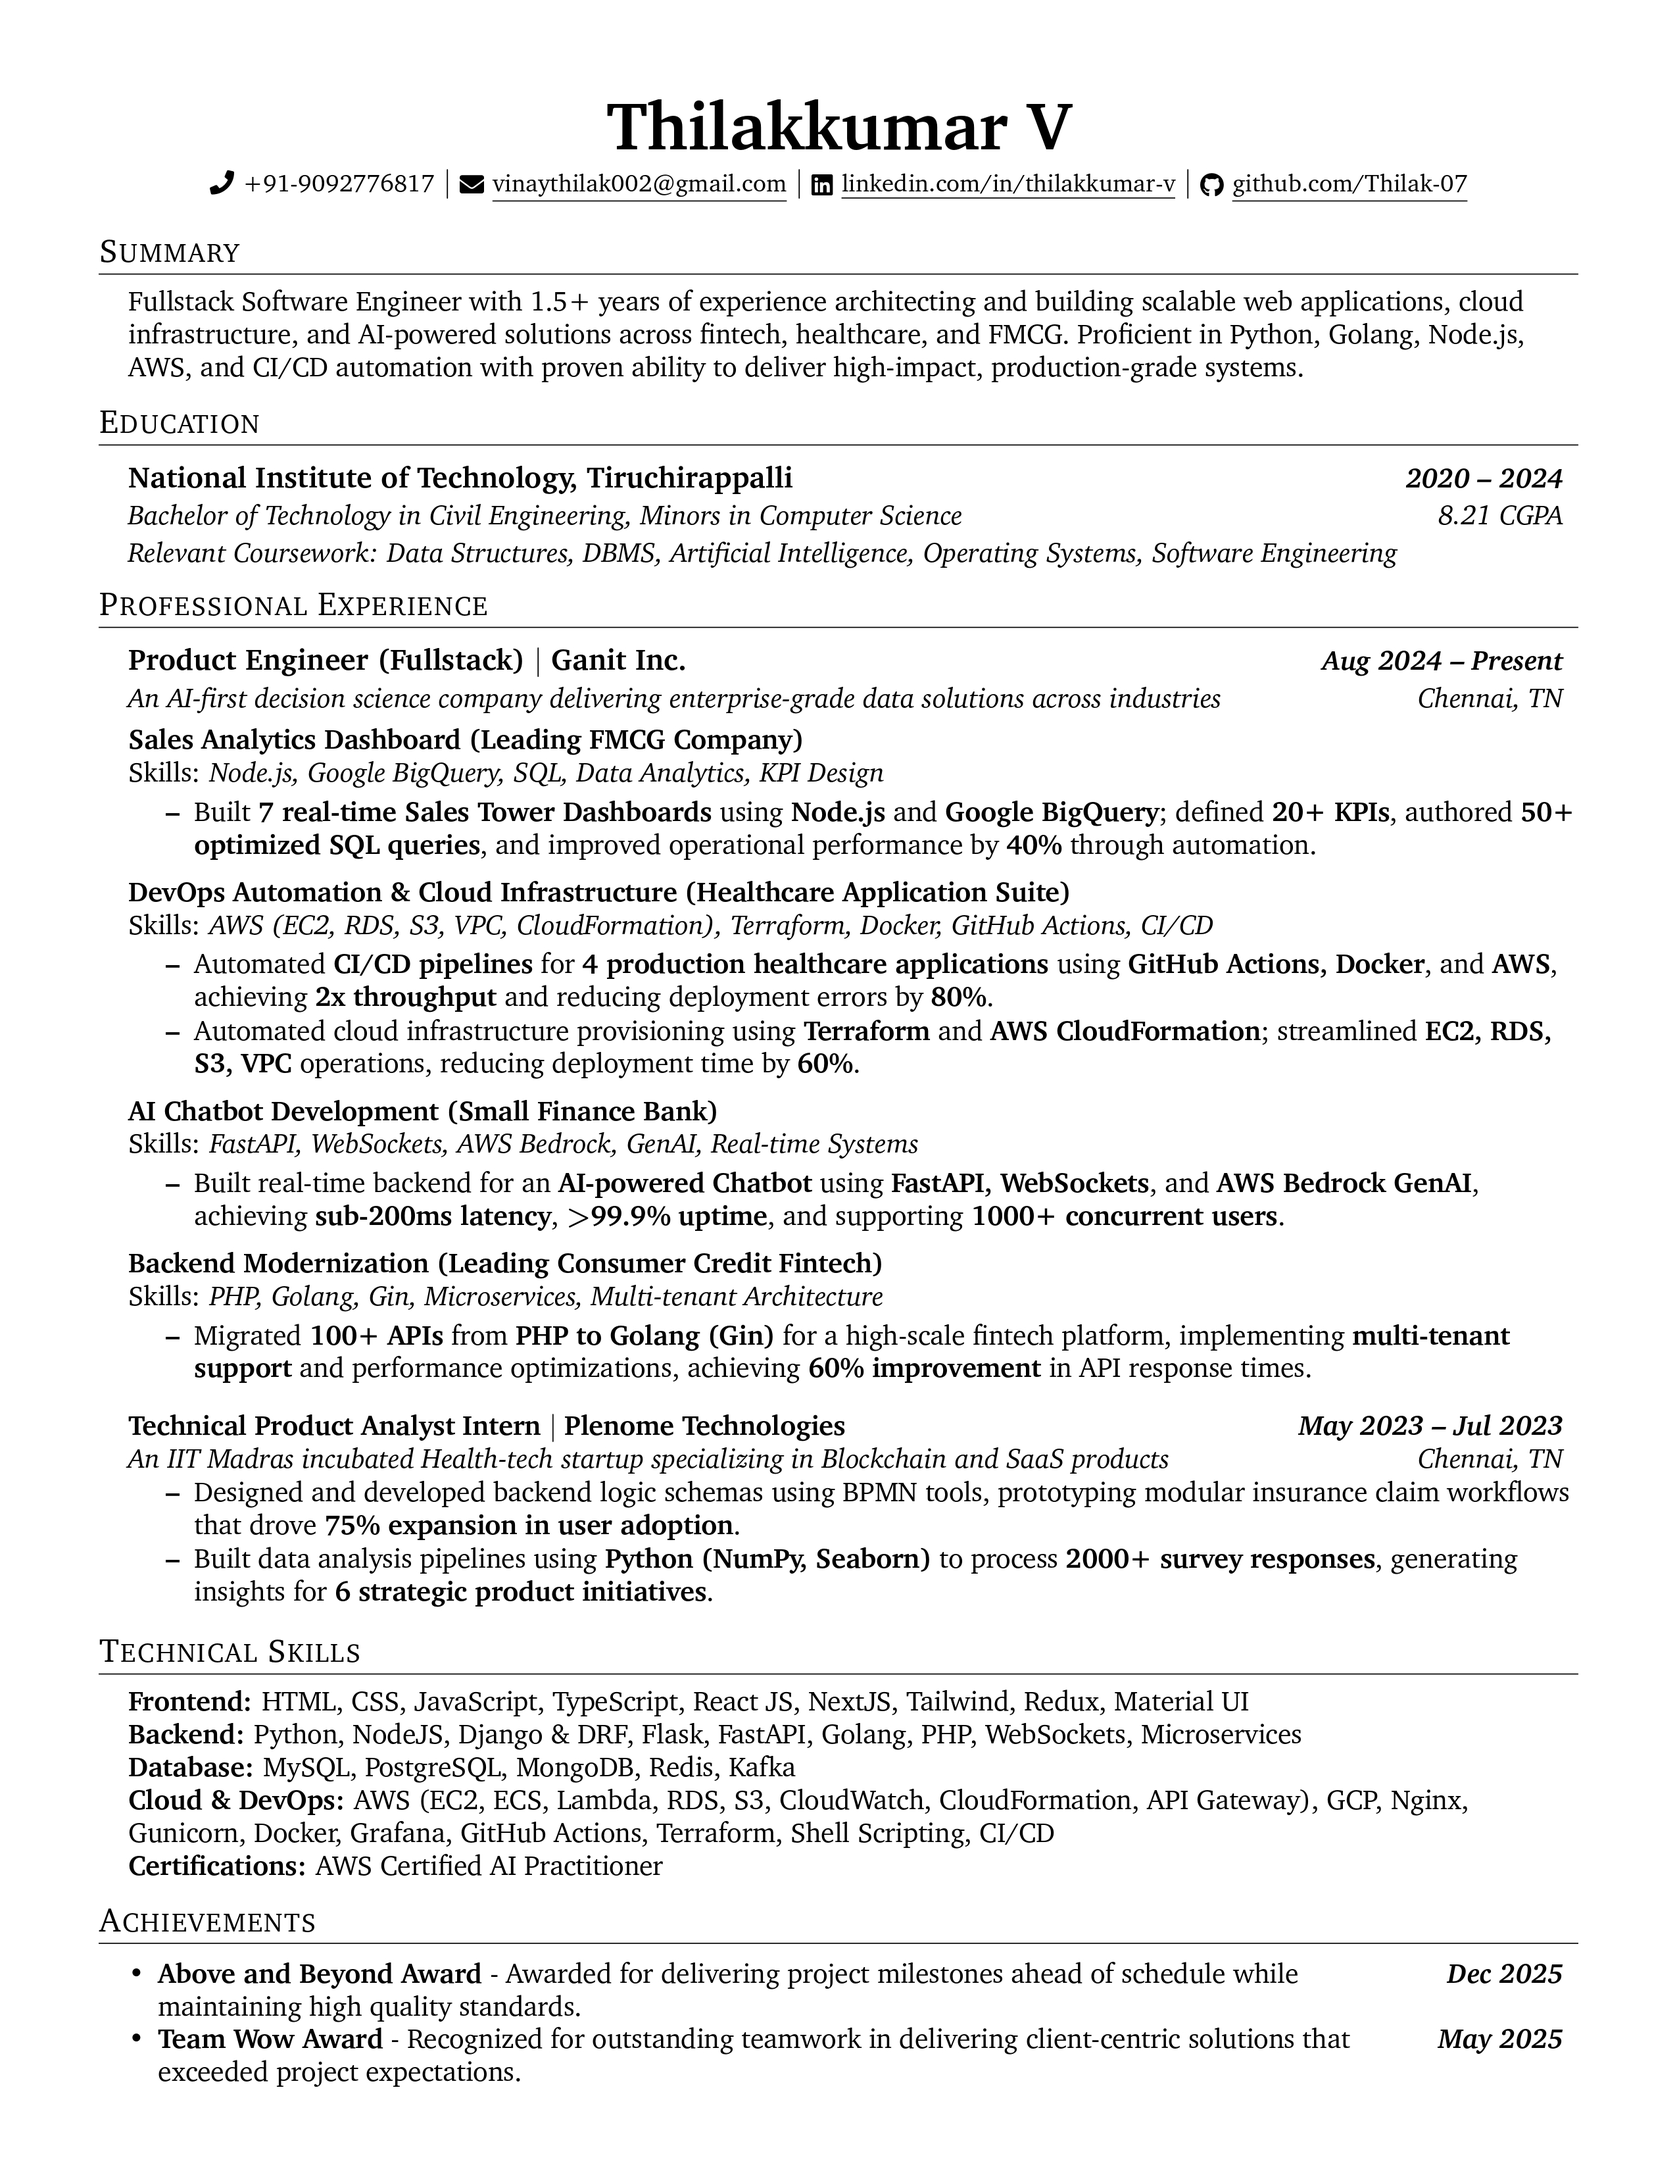
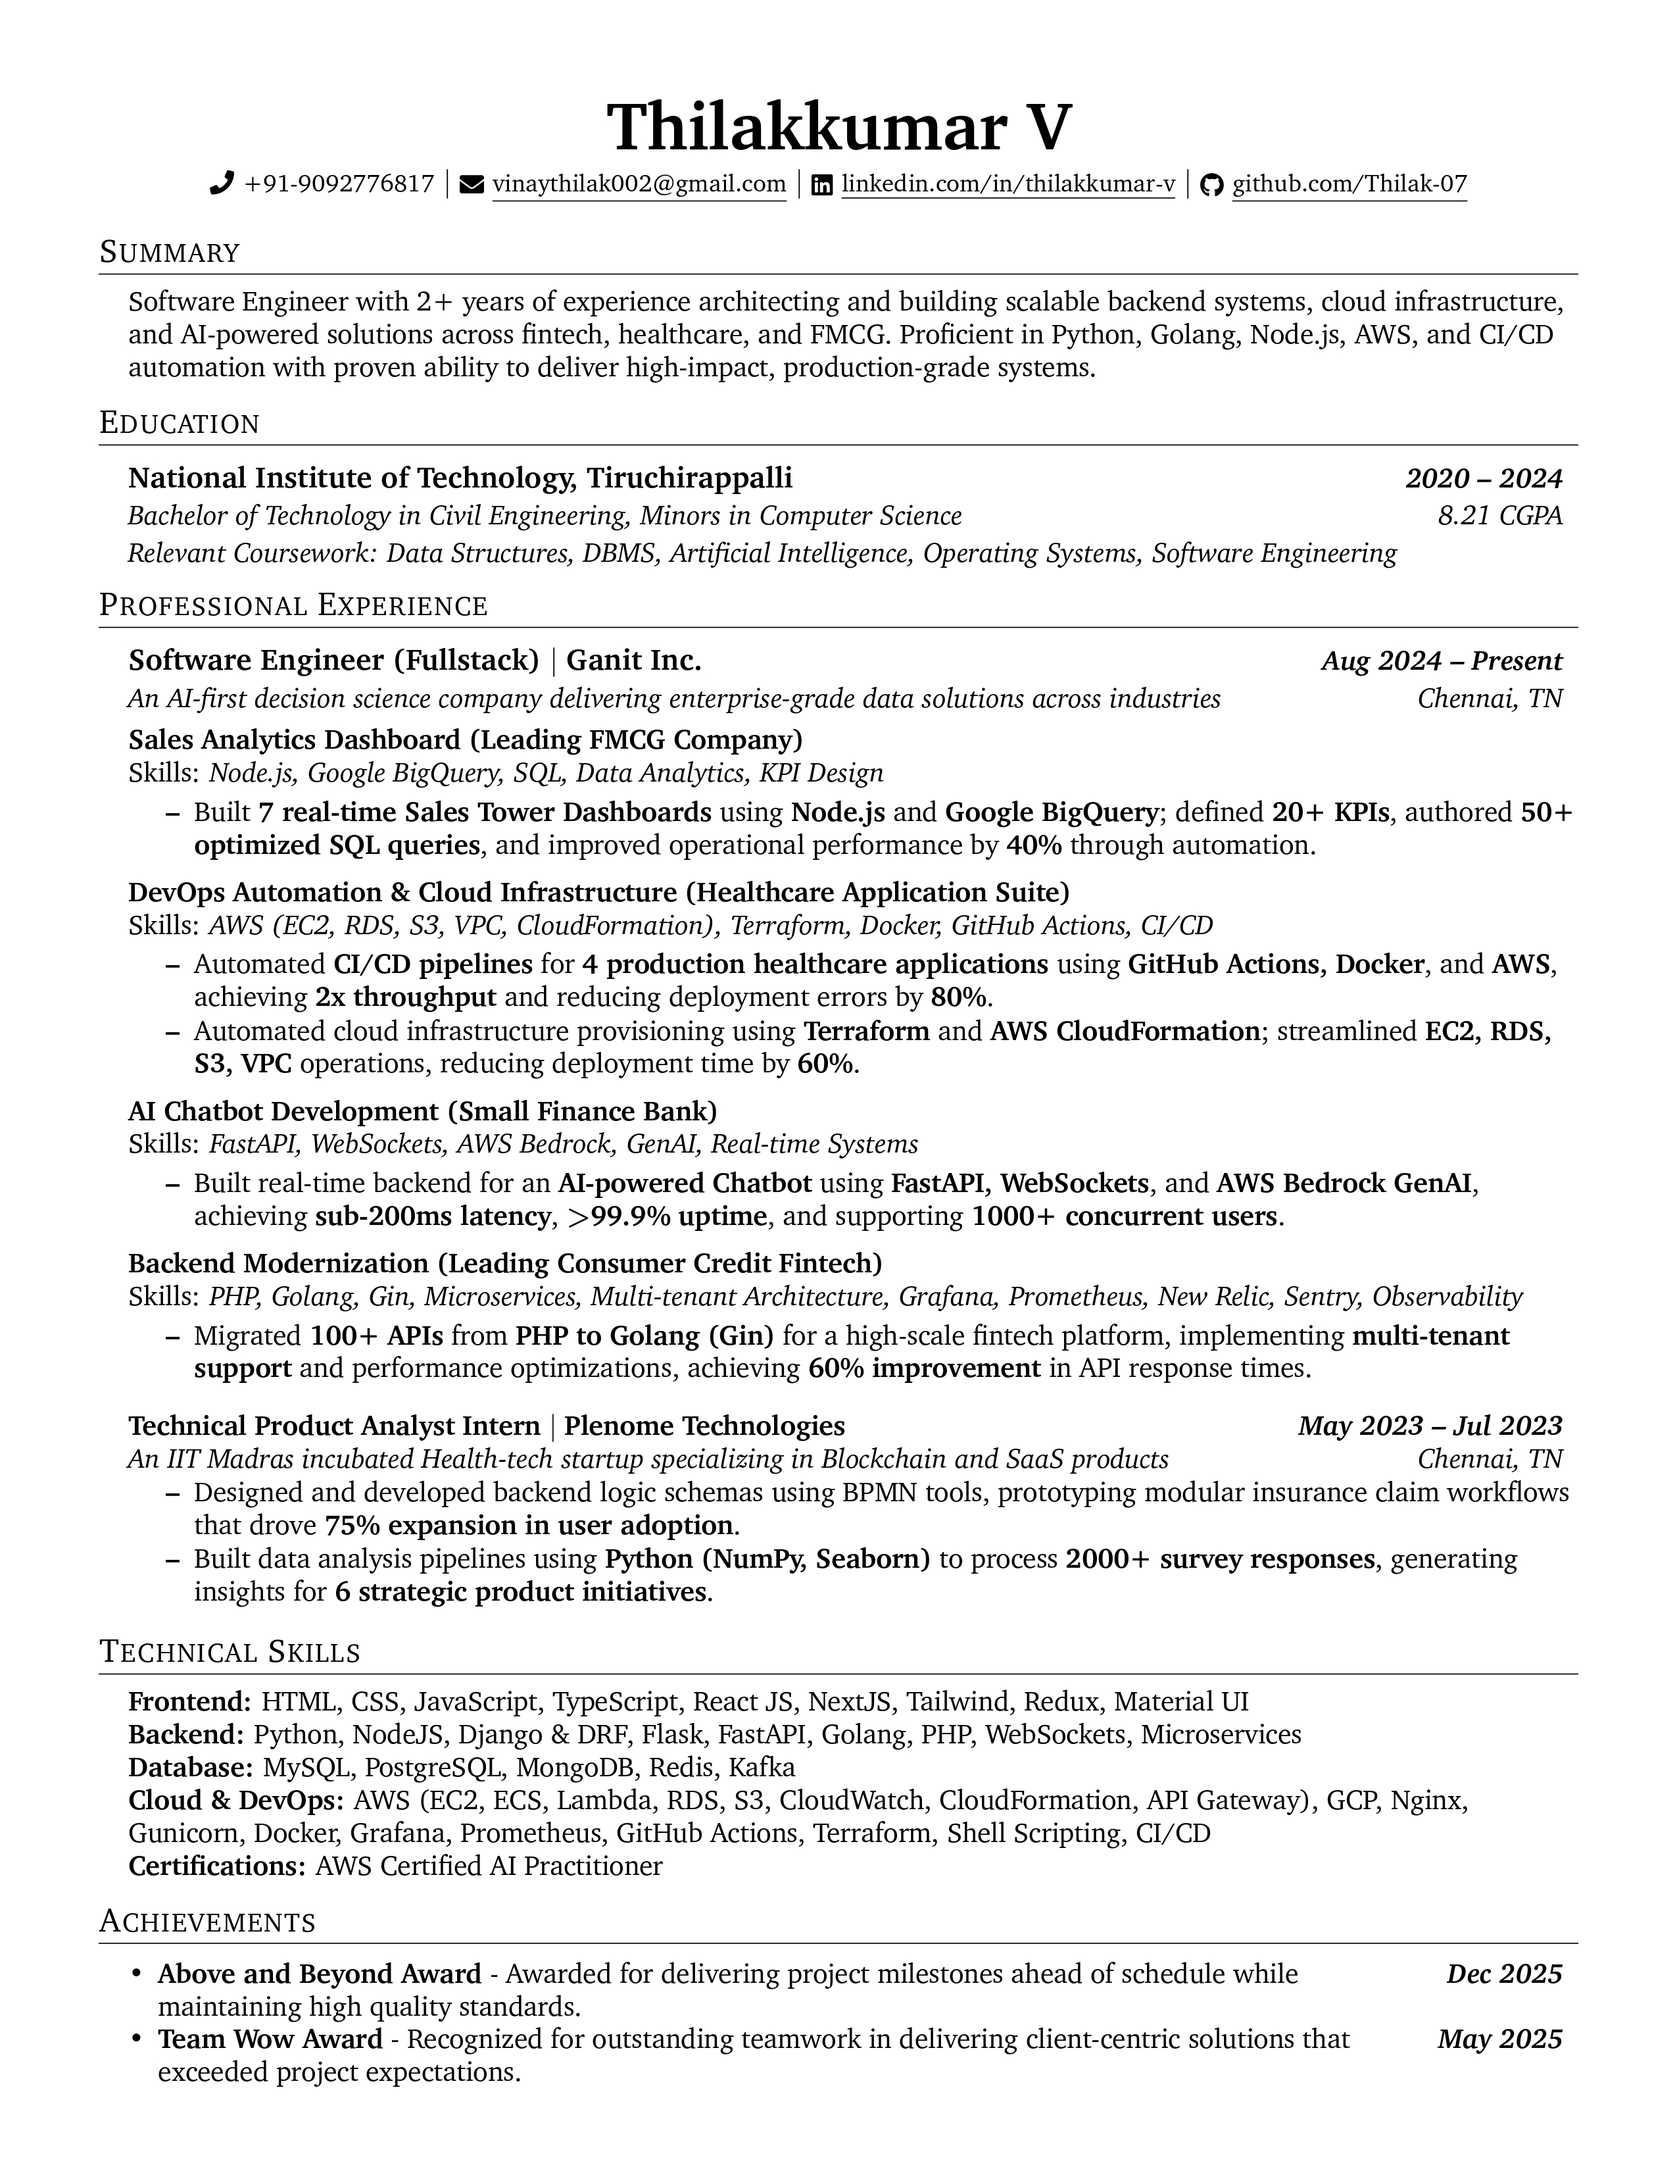
chore: update exp years and add observability tools

diff --git a/main.tex b/main.tex
@@ -136,7 +136,7 @@
 \section{Summary}
   \begin{itemize}[leftmargin=0.15in, label={}]
     \small \item{
-      Fullstack Software Engineer with 1.5+ years of experience architecting and building scalable web applications, cloud infrastructure, and AI-powered solutions across fintech, healthcare, and FMCG. Proficient in Python, Golang, Node.js, AWS, and CI/CD automation with proven ability to deliver high-impact, production-grade systems.
+      Software Engineer with 2+ years of experience architecting and building scalable backend systems, cloud infrastructure, and AI-powered solutions across fintech, healthcare, and FMCG. Proficient in Python, Golang, Node.js, AWS, and CI/CD automation with proven ability to deliver high-impact, production-grade systems.
     } \vspace{-5pt}
   \end{itemize}
 
@@ -191,7 +191,7 @@
 
       \projectSubsection
         {Backend Modernization (Leading Consumer Credit Fintech)}
-        {PHP, Golang, Gin, Microservices, Multi-tenant Architecture}
+        {PHP, Golang, Gin, Microservices, Multi-tenant Architecture, Grafana, Prometheus, New Relic, Sentry, Observability}
       \resumeItemListStart
         \resumeItem{Migrated \textbf{100+ APIs} from \textbf{PHP to Golang (Gin)} for a high-scale fintech platform, implementing \textbf{multi-tenant support} and performance optimizations, achieving \textbf{60\% improvement} in API response times.}
       \resumeItemListEnd
@@ -215,7 +215,7 @@
          \textbf{Frontend:}{ HTML, CSS, JavaScript, TypeScript, React JS, NextJS, Tailwind, Redux, Material UI} \\
          \textbf{Backend:}{ Python, NodeJS, Django \& DRF, Flask, FastAPI, Golang, PHP, WebSockets, Microservices} \\
          \textbf{Database:}{ MySQL, PostgreSQL, MongoDB, Redis, Kafka} \\
-         \textbf{Cloud \& DevOps:}{ AWS (EC2, ECS, Lambda, RDS, S3, CloudWatch, CloudFormation, API Gateway), GCP, Nginx, Gunicorn, Docker, Grafana, GitHub Actions, Terraform, Shell Scripting, CI/CD} \\
+         \textbf{Cloud \& DevOps:}{ AWS (EC2, ECS, Lambda, RDS, S3, CloudWatch, CloudFormation, API Gateway), GCP, Nginx, Gunicorn, Docker, Grafana, Prometheus, GitHub Actions, Terraform, Shell Scripting, CI/CD} \\
          \textbf{Certifications:}{ AWS Certified AI Practitioner}
     } \vspace{-5pt}
  \end{itemize}
